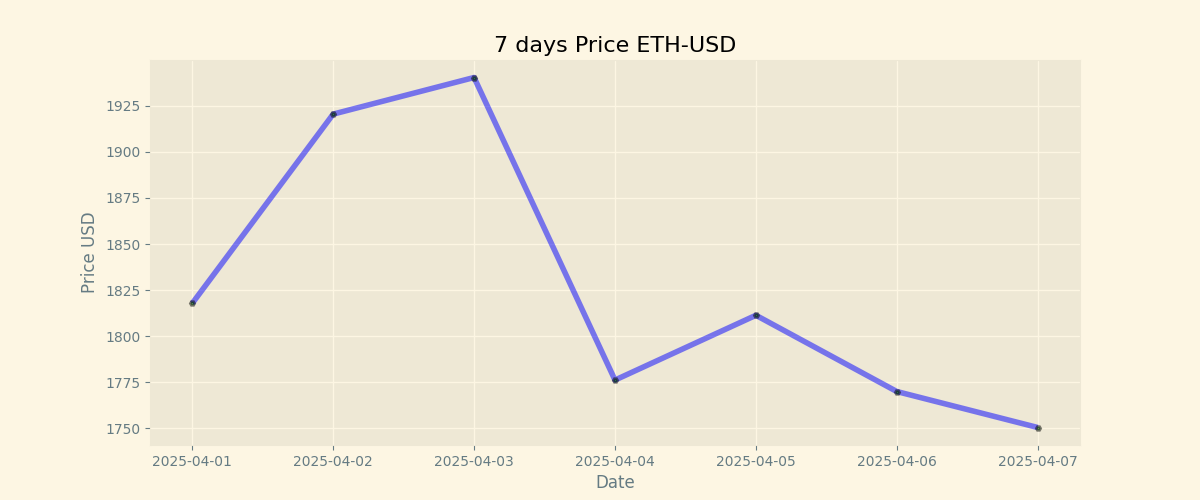
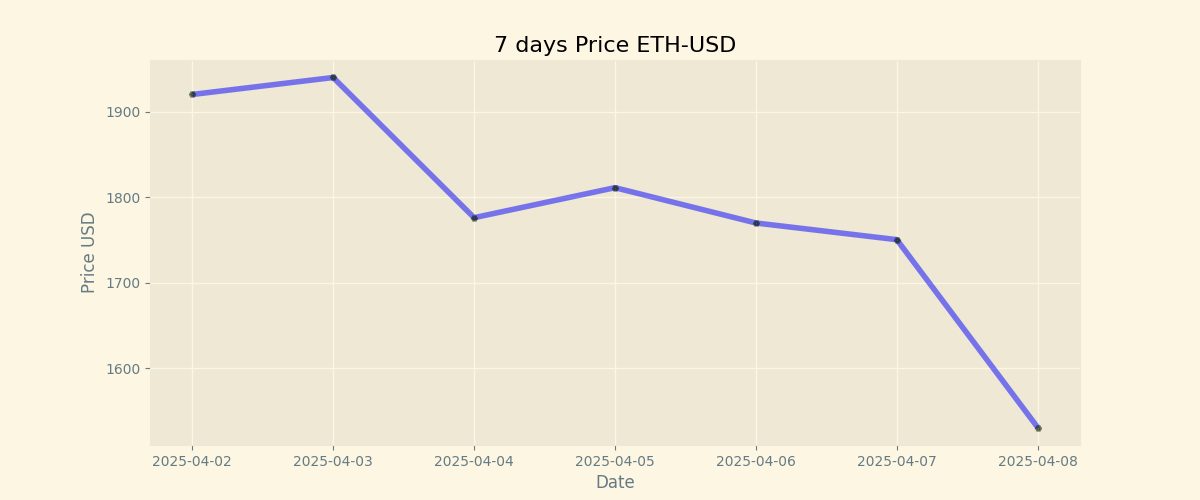
Duty Updates 2025-04-08

diff --git a/README.md b/README.md
@@ -9,8 +9,8 @@
 
 | Currency | Price           |
 | -------- | --------------- |
-| **BTC**  | **$ 81561.5** |
-| **ETH**  | **$ 1750.51** |
+| **BTC**  | **$ 76661.0** |
+| **ETH**  | **$ 1530.59** |
 
 ## BTC chart
 
